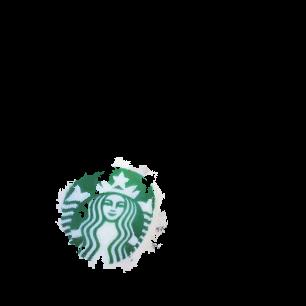
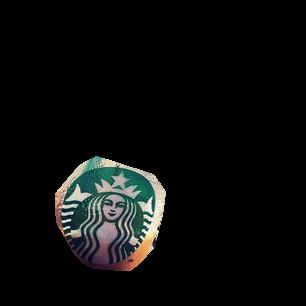
output convex matching patterns

Changed region(s): [[0.1765, 0.5, 0.5588, 0.9118]]

diff --git a/NRDCAdobeSIGGRAPH/nrdc_yves.m b/NRDCAdobeSIGGRAPH/nrdc_yves.m
@@ -1,6 +1,6 @@
 %% Read files
 
-function [] = nrdc_yves(my_dir,my_out_dir,counter_thres, diversity_counter_thres)
+function [] = nrdc_yves(my_dir,my_out_dir,counter_thres, diversity_counter_thres,s_idx,e_idx)
 %% my_dir = './tmobile/';
 %% my_out_dir = './tmobile_out/';
 files = dir(my_dir);
@@ -8,12 +8,11 @@ files = dir(my_dir);
 %% diversity_counter_thres = 6;
 fileIndex = find(~[files.isdir]);
 
-for i = 1:2
+for i = s_idx:e_idx
     diversity_counter = 0;
     counter = 0;
     %% randomize search
-    A = [13,16];
-    %A = i+1:length(fileIndex);
+    A = i+1:length(fileIndex);
     B=A(randperm(length(A)));
     for j = 1:length(B)
         disp(strcat(num2str(i),'-',num2str(B(j))));
@@ -42,27 +41,13 @@ for i = 1:2
         else
             % Show aligned reference:
             diversity_counter = diversity_counter + 1;
-            bw_align = rgb2gray(AlignedRef);
-            bw_align = boundSegment(bw_align);
+            bw_align = im2bw(AlignedRef,0.01);
+            bw_align = bwconvhull(bw_align);
             bw_align = padarray(bw_align,size(Src)-size(bw_align));
-            imtool(Src.*repmat(bw_align,[1,1,3]));
-            imwrite(AlignedRef,filename);
+            a = repmat(bw_align,[1,1,3]);
+            masked = Src.*a;
+            %imshow(masked);
+            imwrite(masked,filename);
         end
     end
 end
-function [ boundImage ] = boundSegment( input_image )
-image = defaultSegment(input_image);
-clear s;
-s = regionprops(image, 'Area', 'BoundingBox');
-numObj = numel(s);
-index = 1;
-for k = 1: numObj-1
-    if s(k+1).Area > s(index).Area
-        index = k+1;
-    else
-        index = index;
-    end
-end
-figure, imshow(input_image);
-rectangle('Position',s(index).BoundingBox);
-boundImage = null;
